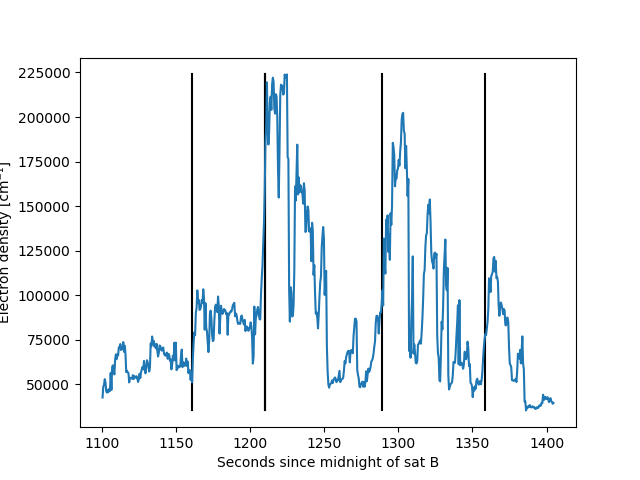
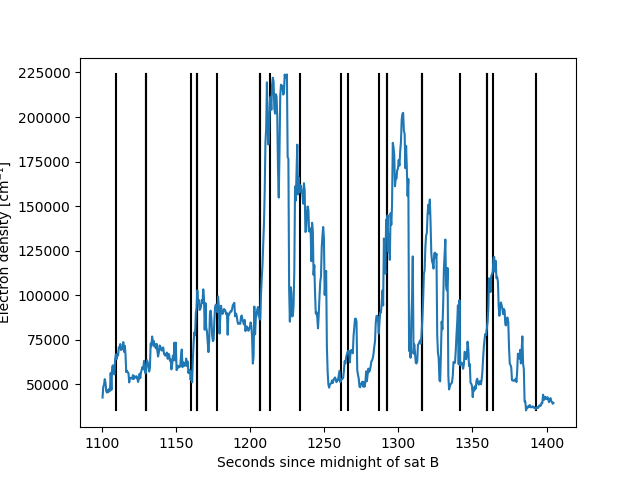
Fixed bug in wavefront_finder

diff --git a/SWARM/wave_inspector.py b/SWARM/wave_inspector.py
@@ -381,8 +381,8 @@ class WaveInspect(SWARMprocess):
         NeA = self.NeA[start + BA_shift:stop + BA_shift +1]
         NeC = self.NeC[start + BC_shift:stop + BC_shift +1]
 
-        mean_range = 15
-        partsize = 200
+        mean_range = 10
+        partsize = 50
         wavefront_inds, BA_diff, BC_diff = self.wavefront_finder(NeB, NeA, NeC,\
                                             mean_range = mean_range,\
                                             partsize = partsize)
@@ -399,6 +399,17 @@ class WaveInspect(SWARMprocess):
         plt.ylabel("Electron density [cm⁻¹]")
         plt.savefig(self.figpath + "wavefront_finder_example.png")
         plt.show()
+
+        plt.plot(seconds[wavefront_inds], BA_diff, "-o")
+        plt.plot(seconds[wavefront_inds], BC_diff, "-o")
+        plt.xlabel("Seconds after midnight of sat B")
+        plt.ylabel("Index difference")
+        plt.title("Index differences found")
+        plt.legend(["BA diff", "BC diff"])
+        plt.savefig(self.figpath + "wavefront_finder_example_indices.png")
+        plt.show()
+
+        print(BC_diff)
 if __name__ == "__main__":
     object = WaveInspect()
-    object.pole_case_study2()
+    object.pole_case_study4()

diff --git a/SWARM/SWARMprocess.py b/SWARM/SWARMprocess.py
@@ -185,7 +185,7 @@ class SWARMprocess():
         max1 = indices[np.where(array1 == np.max(array1))]
         max2 = indices[np.where(array2 == np.max(array2))]
 
-        return(max1, (max1 - max2))
+        return(int(max1), int(max1 - max2))
 
     def wavefront_finder(self, array1, array2, array3, mean_range = 10,\
         partsize = 50):
@@ -225,7 +225,7 @@ class SWARMprocess():
             #finding distance between max values along with index of max values
             ind_1, diff_1_2 = self.maxdiff(curr1, curr2)
             ind_1 += startind
-            diff_1_3 = self.maxdiff(curr1, curr3)
+            ind_2, diff_1_3 = self.maxdiff(curr1, curr3)
             diff_inds.append(ind_1)
             diffs_1_2.append(diff_1_2)
             diffs_1_3.append(diff_1_3)
